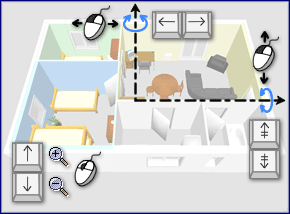
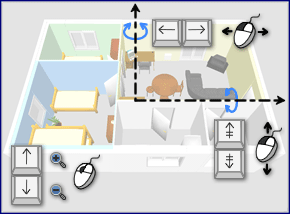
Added eyes elevation indicator
git-svn-id: https://svn.code.sf.net/p/sweethome3d/code@2312 03e323e1-6c6c-46a5-9f71-c4ce5d8c6204

Changed region(s): [[0.2483, 0.028, 0.9931, 0.8692], [0.031, 0.6449, 0.3724, 0.9813], [0.9931, 0.9813, 1.0, 1.0]]

diff --git a/trunk/SweetHome3D/src/com/eteks/sweethome3d/viewcontroller/resources/help/fr/editing3DView.html b/trunk/SweetHome3D/src/com/eteks/sweethome3d/viewcontroller/resources/help/fr/editing3DView.html
@@ -38,27 +38,37 @@
 	      <td>Visite virtuelle</td>
 	      </tr>
 	    </table>	 
-		<p>Quand la <i>Vue a&eacute;rienne</i> est s&eacute;lectionn&eacute;e, la vue 3D affiche votre logement en 3D vu de haut.
-		  Dans ce mode, le d&eacute;placement de la souris vers la gauche ou la droite en maintenant  son bouton
-		  gauche enfonc&eacute; fait tourner
-		  le logement autour d'un axe vertical positionn&eacute; au centre du logement&nbsp;; le d&eacute;placement de la souris
-		  en avant ou en arri&egrave;re en maintenant  son bouton gauche enfonc&eacute; fait tourner le logement
-		  autour d'un axe horizontal&nbsp;;
-	  la rotation de la roue de la souris permet de zoomer en avant ou en arri&egrave;re dans la vue 3D. <br>
-	  Quand la <i>Visite virtuelle</i> est s&eacute;lectionn&eacute;e, la vue 3D affiche votre logement en
-	  3D vue du point de vue d'un visiteur virtuel. Dans ce mode, le d&eacute;placement de la souris vers la gauche ou
-	  la droite  fait tourner le corps du visiteur vers la gauche ou la droite&nbsp;;
-	  le d&eacute;placement
-	  de la souris en avant ou en arri&egrave;re  fait tourner
-	  la t&ecirc;te du visteur vers le haut ou vers le bas&nbsp;; la rotation de la roue
-	  de la souris fait avancer ou reculer le visiteur.	  <br>
-		  Dans les deux modes, les touches <i>fl&egrave;che gauche</i> et <i>fl&egrave;che droite</i> ont le m&ecirc;me effet que les mouvements lat&eacute;raux de
-		  la souris ; les touches <i>page pr&eacute;c&eacute;dente</i> et <i>page suivante</i> ont le m&ecirc;me effet que les mouvements de la souris en avant
-		  ou en arri&egrave;re&nbsp;;
-	  les touches <i>fl&egrave;che haut</i> et <i>fl&egrave;che bas</i> ont le m&ecirc;me effet que la roue de la souris.                                                                                                                                                                                                                                                                                                                                                                                                                                                                                                                                                                                                                                                                                                                                                                                                                                                                                                                                                                                                                                       </p>
-		<p>Quand la <i>Visite virtuelle</i> est s&eacute;lectionn&eacute;e, un visiteur virtuel vu de haut est aussi dessin&eacute; dans
-		  le plan du logement. Sa position et son angle sont mis &agrave; jour simultan&eacute;ment dans le plan et la vue
-		  3D &agrave; chaque mouvement du visiteur. Ce visiteur virtuel est entour&eacute; par trois indicateurs.</p>
+		<p>Quand la <i>Vue a&eacute;rienne</i> est s&eacute;lectionn&eacute;e, 
+          la vue 3D affiche votre logement en 3D vu de haut. Dans ce mode, le 
+          d&eacute;placement de la souris vers la gauche ou la droite en maintenant 
+          son bouton gauche enfonc&eacute; fait tourner le logement autour d'un 
+          axe vertical positionn&eacute; au centre du logement&nbsp;; le d&eacute;placement 
+          de la souris en avant ou en arri&egrave;re en maintenant son bouton 
+          gauche enfonc&eacute; fait tourner le logement autour d'un axe horizontal&nbsp;; 
+          la rotation de la roue de la souris permet de zoomer en avant ou en 
+          arri&egrave;re dans la vue 3D. <br>
+          Quand la <i>Visite virtuelle</i> est s&eacute;lectionn&eacute;e, la 
+          vue 3D affiche votre logement en 3D vue du point de vue d'un visiteur 
+          virtuel. Dans ce mode, le d&eacute;placement de la souris vers la gauche 
+          ou la droite fait tourner le corps du visiteur vers la gauche ou la 
+          droite&nbsp;; le d&eacute;placement de la souris en avant ou en arri&egrave;re 
+          fait tourner la t&ecirc;te du visteur vers le haut ou vers le bas&nbsp;; 
+          la rotation de la roue de la souris fait avancer ou reculer le visiteur.	
+          <br>
+          Dans les deux modes, les touches <i>fl&egrave;che gauche</i> et <i>fl&egrave;che 
+          droite</i> ont le m&ecirc;me effet que les mouvements lat&eacute;raux 
+          de la souris ; les touches <i>page pr&eacute;c&eacute;dente</i> et <i>page 
+          suivante</i> ont le m&ecirc;me effet que les mouvements de la souris 
+          en avant ou en arri&egrave;re&nbsp;; les touches <i>fl&egrave;che haut</i> 
+          et <i>fl&egrave;che bas</i> ont le m&ecirc;me effet que la roue de la 
+          souris. Dans le mode <i>Visite virtuelle</i>, vous pouvez aussi utiliser 
+          les touches <i>home</i> et <i>end</i> pour monter ou descendre en hauteur 
+          le point de vue du visiteur.</p>
+		<p>Quand la <i>Visite virtuelle</i> est s&eacute;lectionn&eacute;e, un 
+          visiteur virtuel vu de haut est aussi dessin&eacute; dans le plan du 
+          logement. Sa position et son angle sont mis &agrave; jour simultan&eacute;ment 
+          dans le plan et la vue 3D &agrave; chaque mouvement du visiteur. Ce 
+          visiteur virtuel est entour&eacute; par quatre indicateurs.</p>
 		<p align="center"><img src="../images/virtualVisitorIndicators.png" width="80" height="80"></p></td>
 	</tr>
 </table>
@@ -87,6 +97,14 @@
                 faire tourner le corps du visiteur vers la gauche ou vers la droite.</p>
             </td>
           </tr>
+		   <tr valign="top">
+            <td nowrap><p>4.</p>
+            </td>
+            <td><p>L'indicateur d'&eacute;l&eacute;vation des yeux montre le point 
+                  que vous pouvez glisser-d&eacute;poser pour monter ou descendre 
+                  le point de vue du visiteur.</p>
+            </td>
+          </tr>
         </table>
         </td>
     </tr>
@@ -94,11 +112,15 @@
 </div>
 <table width="100%" border="0" cellspacing="0" cellpadding="3">
   <tr>
-    <td><p>Quand le pointeur de la souris est sur l'une des &eacute;paules du visiteur, celui-ci change d'aspect pour
-       indiquer que vous pouvez glisser-d&eacute;poser ce point pour modifier l'angle de la t&ecirc;te ou du corps du visiteur.
-        Pendant que vous appuyez sur le bouton de la souris, une info-bulle indique la valeur de l'angle modifi&eacute;.<br>
-        Vous pouvez modifier aussi la position du visiteur virtuel &agrave; partir du plan&nbsp;:
-        glissez-d&eacute;posez le, ou s&eacute;lectionnez le et appuyez sur les  fl&egrave;ches du clavier. </p>
+    <td><p>Quand le pointeur de la souris est sur l'une des &eacute;paules ou 
+          dans le dos du visiteur, celui-ci change d'aspect pour indiquer que 
+          vous pouvez glisser-d&eacute;poser ce point pour modifier l'angle de 
+          la t&ecirc;te du visiteur, l'angle de son corps ou l'&eacute;l&eacute;vation 
+          de son point de vue. Pendant que vous appuyez sur le bouton de la souris, 
+          une info-bulle indique la valeur de l'angle modifi&eacute;.<br>
+          Vous pouvez modifier aussi la position du visiteur virtuel &agrave; 
+          partir du plan&nbsp;: glissez-d&eacute;posez le, ou s&eacute;lectionnez 
+          le et appuyez sur les fl&egrave;ches du clavier. </p>
         <p>D'autres attributs de la vue  3D peuvent &ecirc;tre modifi&eacute;s en choisissant <i>Vue
             3D &gt; Modifier...</i>.</p>
         <p align="center"><img src="images/editing3DView.png" width="399" height="214"></p>

diff --git a/trunk/SweetHome3D/src/com/eteks/sweethome3d/viewcontroller/resources/help/en/editing3DView.html b/trunk/SweetHome3D/src/com/eteks/sweethome3d/viewcontroller/resources/help/en/editing3DView.html
@@ -38,23 +38,30 @@
 	      <td>Virtual visit</td>
 	      </tr>
 	    </table>	 
-		<p>When <i>Aerial view</i> is selected, the 3D view displays your home  in 3 dimensions seen from a top point of view.
-		  In this mode, moving the mouse to the left or to the right with its left button pressed makes the home turn around
-		  a vertical axis located at home
-	  center&nbsp;; moving the mouse forward or backward with its left button pressed makes the home turn around an horizontal
-	  axis&nbsp;;
-	  rolling the mouse wheel zooms in or out in the 3D view. <br>
-	  When <i>Virtual visit </i> is selected, the 3D view displays your home
-	  in 3 dimensions seen from the point of view of a virtual visitor. In this mode, moving the mouse to the left or to
-	  the right with its left button pressed makes the visitor body turn to the left or to the right&nbsp;;
-		  moving the mouse forward or backward with its left button pressed makes the visitor head turn up or down&nbsp;;
-		  rolling the mouse wheel makes the visitor move backward or forward. <br>
-		  In both modes, the <i>left arrow</i> and <i>right arrow</i> keys have the same effect as mouse lateral moves  ; <i>page up</i> and <i>page
-		  down</i> keys have the same effect as mouse moves forward and backward&nbsp;; <i>up arrow</i> and <i>down
-		  arrow</i> keys have the same effect as mouse wheel.</p>
-		<p>When <i>Virtual visit </i> is selected, a virtual visitor seen from top is also drawn in the home plan. Its location
-		  and its angle is updated simultaneously 
-	   in the plan and 3D view with each move of the visitor. This virtual visitor is surrounded by  three  indicators.</p>
+		<p>When <i>Aerial view</i> is selected, the 3D view displays your home 
+          in 3 dimensions seen from a top point of view. In this mode, moving 
+          the mouse to the left or to the right with its left button pressed makes 
+          the home turn around a vertical axis located at home center&nbsp;; moving 
+          the mouse forward or backward with its left button pressed makes the 
+          home turn around an horizontal axis&nbsp;; rolling the mouse wheel zooms 
+          in or out in the 3D view. <br>
+          When <i>Virtual visit </i> is selected, the 3D view displays your home 
+          in 3 dimensions seen from the point of view of a virtual visitor. In 
+          this mode, moving the mouse to the left or to the right with its left 
+          button pressed makes the visitor body turn to the left or to the right&nbsp;; 
+          moving the mouse forward or backward with its left button pressed makes 
+          the visitor head turn up or down&nbsp;; rolling the mouse wheel makes 
+          the visitor move backward or forward. <br>
+          In both modes, the <i>left arrow</i> and <i>right arrow</i> keys have 
+          the same effect as mouse lateral moves ; <i>page up</i> and <i>page 
+          down</i> keys have the same effect as mouse moves forward and backward&nbsp;; 
+          <i>up arrow</i> and <i>down arrow</i> keys have the same effect as mouse 
+          wheel. In <i>Virtual visit </i>mode, you can also use the <i>home</i> 
+          and <i>end</i> keys to move up or down the visitor's point of view.</p>
+		<p>When <i>Virtual visit </i> is selected, a virtual visitor seen from 
+          top is also drawn in the home plan. Its location and its angle is updated 
+          simultaneously in the plan and 3D view with each move of the visitor. 
+          This virtual visitor is surrounded by four indicators.</p>
 		<p align="center"><img src="../images/virtualVisitorIndicators.png" width="80" height="80"></p></td>
 	</tr>
 </table>
@@ -83,6 +90,13 @@
                 or to the right.</p>
             </td>
           </tr>
+          <tr valign="top">
+            <td nowrap><p>4.</p>
+            </td>
+            <td><p>The eyes elevation indicator shows the point you can drag to 
+                  move up or down the visitor's point of view.</p>
+            </td>
+          </tr>
         </table>
         </td>
     </tr>
@@ -90,13 +104,14 @@
 </div>
 <table width="100%" border="0" cellspacing="0" cellpadding="3">
   <tr>
-    <td><p>When the mouse pointer is upon one of the  visitor shoulder, it changes to indicate you
-        can drag and drop that point to change the head or body angle of the visitor. While you press the mouse
-        button,
-        a tooltip
-        shows the value of the edited angle.<br>
-        You may also change change the location of the virtual visitor from the home plan: drag and drop it, or select
-        it and press the keyboard arrows. </p>
+    <td><p>When the mouse pointer is upon one of the visitor shoulders or in its 
+          back, it changes to indicate you can drag and drop that point to change 
+          the head angle of the visitor, its body angle or the elevation of its 
+          point of view. While you press the mouse button, a tooltip shows the 
+          value of the edited angle.<br>
+          You may also change change the location of the virtual visitor from 
+          the home plan: drag and drop it, or select it and press the keyboard 
+          arrows. </p>
         <p>Other attributes of the 3D view may be edited  by choosing <i>3D
           view &gt; Modify...</i>.</p>
         <p align="center"><img src="images/editing3DView.png" width="347" height="214"></p>

diff --git a/trunk/SweetHome3D/src/com/eteks/sweethome3d/swing/PlanComponent.java b/trunk/SweetHome3D/src/com/eteks/sweethome3d/swing/PlanComponent.java
@@ -243,6 +243,7 @@ public class PlanComponent extends JComponent implements PlanView, Scrollable, P
   private Map<Content, BufferedImage> floorTextureImagesCache;
   private Map<HomePieceOfFurniture, PieceOfFurnitureTopViewIcon> furnitureTopViewIconsCache;
 
+  private static final Shape       POINT_INDICATOR;
   private static final GeneralPath FURNITURE_ROTATION_INDICATOR;
   private static final GeneralPath FURNITURE_RESIZE_INDICATOR;
   private static final GeneralPath FURNITURE_ELEVATION_INDICATOR;
@@ -254,6 +255,7 @@ public class PlanComponent extends JComponent implements PlanView, Scrollable, P
   private static final GeneralPath WALL_AND_LINE_RESIZE_INDICATOR;
   private static final Shape       CAMERA_YAW_ROTATION_INDICATOR;
   private static final GeneralPath CAMERA_PITCH_ROTATION_INDICATOR;
+  private static final GeneralPath CAMERA_ELEVATION_INDICATOR;
   private static final Shape       CAMERA_BODY;
   private static final Shape       CAMERA_HEAD;  
   private static final GeneralPath DIMENSION_LINE_END;  
@@ -266,10 +268,12 @@ public class PlanComponent extends JComponent implements PlanView, Scrollable, P
   private static final float       BORDER_STROKE_WIDTH = 1f;
 
   static {
+    POINT_INDICATOR = new Ellipse2D.Float(-1.5f, -1.5f, 3, 3);
+    
     // Create a path that draws an round arrow used as a rotation indicator 
     // at top left point of a piece of furniture
     FURNITURE_ROTATION_INDICATOR = new GeneralPath();
-    FURNITURE_ROTATION_INDICATOR.append(new Ellipse2D.Float(-1.5f, -1.5f, 3, 3), false);
+    FURNITURE_ROTATION_INDICATOR.append(POINT_INDICATOR, false);
     FURNITURE_ROTATION_INDICATOR.append(new Arc2D.Float(-8, -8, 16, 16, 45, 180, Arc2D.OPEN), false);
     FURNITURE_ROTATION_INDICATOR.moveTo(2.66f, -5.66f);
     FURNITURE_ROTATION_INDICATOR.lineTo(5.66f, -5.66f);
@@ -348,7 +352,7 @@ public class PlanComponent extends JComponent implements PlanView, Scrollable, P
     
     // Create a path used as pitch rotation indicator for the camera
     CAMERA_PITCH_ROTATION_INDICATOR = new GeneralPath();
-    CAMERA_PITCH_ROTATION_INDICATOR.append(new Ellipse2D.Float(-1.5f, -1.5f, 3, 3), false);
+    CAMERA_PITCH_ROTATION_INDICATOR.append(POINT_INDICATOR, false);
     CAMERA_PITCH_ROTATION_INDICATOR.moveTo(4.5f, 0);
     CAMERA_PITCH_ROTATION_INDICATOR.lineTo(5.2f, 0);
     CAMERA_PITCH_ROTATION_INDICATOR.moveTo(9f, 0);
@@ -358,6 +362,17 @@ public class PlanComponent extends JComponent implements PlanView, Scrollable, P
     CAMERA_PITCH_ROTATION_INDICATOR.lineTo(12.3f, 2f);
     CAMERA_PITCH_ROTATION_INDICATOR.lineTo(12.8f, 5.8f);
     
+    // Create a path that draws a line with one arrow as an elevation indicator
+    // at the back of the camera
+    CAMERA_ELEVATION_INDICATOR = new GeneralPath();
+    CAMERA_ELEVATION_INDICATOR.moveTo(0, -4); // Vertical line
+    CAMERA_ELEVATION_INDICATOR.lineTo(0, 4);
+    CAMERA_ELEVATION_INDICATOR.moveTo(-2.5f, 4);    // Bottom line
+    CAMERA_ELEVATION_INDICATOR.lineTo(2.5f, 4);
+    CAMERA_ELEVATION_INDICATOR.moveTo(-1.2f, 0.5f); // Bottom arrow
+    CAMERA_ELEVATION_INDICATOR.lineTo(0, 3.5f);
+    CAMERA_ELEVATION_INDICATOR.lineTo(1.2f, 0.5f);
+
     // Create a path used to draw the camera 
     // This path looks like a human being seen from top that fits in one cm wide square 
     GeneralPath cameraBodyAreaPath = new GeneralPath();
@@ -3310,6 +3325,15 @@ public class PlanComponent extends JComponent implements PlanView, Scrollable, P
       g2D.scale(scaleInverse, scaleInverse);
       g2D.rotate(camera.getYaw());
       g2D.draw(CAMERA_PITCH_ROTATION_INDICATOR);
+      g2D.setTransform(previousTransform);
+
+      // Draw elevation indicator at middle of first and second point of camera 
+      g2D.translate((cameraPoints [0][0] + cameraPoints [1][0]) / 2, 
+          (cameraPoints [0][1] + cameraPoints [1][1]) / 2);
+      g2D.scale(scaleInverse, scaleInverse);
+      g2D.draw(POINT_INDICATOR);
+      g2D.translate(Math.sin(camera.getYaw()) * 8, -Math.cos(camera.getYaw()) * 8);
+      g2D.draw(CAMERA_ELEVATION_INDICATOR);
       g2D.setTransform(previousTransform);
     }
   }

diff --git a/trunk/SweetHome3D/src/com/eteks/sweethome3d/swing/HomeComponent3D.java b/trunk/SweetHome3D/src/com/eteks/sweethome3d/swing/HomeComponent3D.java
@@ -129,7 +129,7 @@ import com.sun.j3d.utils.universe.ViewingPlatform;
 public class HomeComponent3D extends JComponent implements com.eteks.sweethome3d.viewcontroller.View, Printable {
   private enum ActionType {MOVE_CAMERA_FORWARD, MOVE_CAMERA_FAST_FORWARD, MOVE_CAMERA_BACKWARD, MOVE_CAMERA_FAST_BACKWARD,  
       ROTATE_CAMERA_YAW_LEFT, ROTATE_CAMERA_YAW_FAST_LEFT, ROTATE_CAMERA_YAW_RIGHT, ROTATE_CAMERA_YAW_FAST_RIGHT, 
-      ROTATE_CAMERA_PITCH_UP, ROTATE_CAMERA_PITCH_DOWN}
+      ROTATE_CAMERA_PITCH_UP, ROTATE_CAMERA_PITCH_DOWN, ELEVATE_CAMERA_UP, ELEVATE_CAMERA_DOWN}
   
   private final Home                               home;
   private final boolean                            displayShadowOnFloor;
@@ -879,6 +879,8 @@ public class HomeComponent3D extends JComponent implements com.eteks.sweethome3d
     inputMap.put(KeyStroke.getKeyStroke("D"), ActionType.ROTATE_CAMERA_YAW_FAST_RIGHT);
     inputMap.put(KeyStroke.getKeyStroke("PAGE_UP"), ActionType.ROTATE_CAMERA_PITCH_UP);
     inputMap.put(KeyStroke.getKeyStroke("PAGE_DOWN"), ActionType.ROTATE_CAMERA_PITCH_DOWN);
+    inputMap.put(KeyStroke.getKeyStroke("HOME"), ActionType.ELEVATE_CAMERA_UP);
+    inputMap.put(KeyStroke.getKeyStroke("END"), ActionType.ELEVATE_CAMERA_DOWN);
   }
  
   /**
@@ -895,6 +897,18 @@ public class HomeComponent3D extends JComponent implements com.eteks.sweethome3d
 
       public void actionPerformed(ActionEvent e) {
         controller.moveCamera(this.delta);
+      }
+    }
+    // Elevate camera action mapped to arrow keys 
+    class ElevateCameraAction extends AbstractAction {
+      private final float delta;
+      
+      public ElevateCameraAction(float delta) {
+        this.delta = delta;
+      }
+
+      public void actionPerformed(ActionEvent e) {
+        controller.elevateCamera(this.delta);
       }
     }
     // Rotate camera yaw action mapped to arrow keys 
@@ -926,6 +940,8 @@ public class HomeComponent3D extends JComponent implements com.eteks.sweethome3d
     actionMap.put(ActionType.MOVE_CAMERA_FAST_FORWARD, new MoveCameraAction(10));
     actionMap.put(ActionType.MOVE_CAMERA_BACKWARD, new MoveCameraAction(-1));
     actionMap.put(ActionType.MOVE_CAMERA_FAST_BACKWARD, new MoveCameraAction(-10));
+    actionMap.put(ActionType.ELEVATE_CAMERA_DOWN, new ElevateCameraAction(-2.5f));
+    actionMap.put(ActionType.ELEVATE_CAMERA_UP, new ElevateCameraAction(2.5f));
     actionMap.put(ActionType.ROTATE_CAMERA_YAW_LEFT, new RotateCameraYawAction(-(float)Math.PI / 180));
     actionMap.put(ActionType.ROTATE_CAMERA_YAW_FAST_LEFT, new RotateCameraYawAction(-(float)Math.PI / 18));
     actionMap.put(ActionType.ROTATE_CAMERA_YAW_RIGHT, new RotateCameraYawAction((float)Math.PI / 180));

diff --git a/trunk/SweetHome3D/src/com/eteks/sweethome3d/viewcontroller/HomeController3D.java b/trunk/SweetHome3D/src/com/eteks/sweethome3d/viewcontroller/HomeController3D.java
@@ -138,6 +138,13 @@ public class HomeController3D implements Controller {
   }
 
   /**
+   * Elevates home camera of <code>delta</code>.
+   */
+  public void elevateCamera(float delta) {
+    this.cameraState.elevateCamera(delta);
+  }
+
+  /**
    * Rotates home camera yaw angle of <code>delta</code> radians.
    */
   public void rotateCameraYaw(float delta) {
@@ -178,6 +185,9 @@ public class HomeController3D implements Controller {
     public void moveCamera(float delta) {
     }
 
+    public void elevateCamera(float delta) {     
+    }
+    
     public void rotateCameraYaw(float delta) {
     }
 
@@ -398,6 +408,16 @@ public class HomeController3D implements Controller {
     public void moveCamera(float delta) {
       this.observerCamera.setX(this.observerCamera.getX() - (float)Math.sin(this.observerCamera.getYaw()) * delta);
       this.observerCamera.setY(this.observerCamera.getY() + (float)Math.cos(this.observerCamera.getYaw()) * delta);
+      // Select observer camera for user feedback
+      home.setSelectedItems(Arrays.asList(new Selectable [] {this.observerCamera}));
+    }
+    
+    @Override
+    public void elevateCamera(float delta) {
+      float newElevation = this.observerCamera.getZ() + delta; 
+      newElevation = Math.max(newElevation, 10 * 14 / 15);
+      newElevation = Math.min(newElevation, 1000 * 14 / 15);
+      this.observerCamera.setZ(newElevation);
       // Select observer camera for user feedback
       home.setSelectedItems(Arrays.asList(new Selectable [] {this.observerCamera}));
     }
